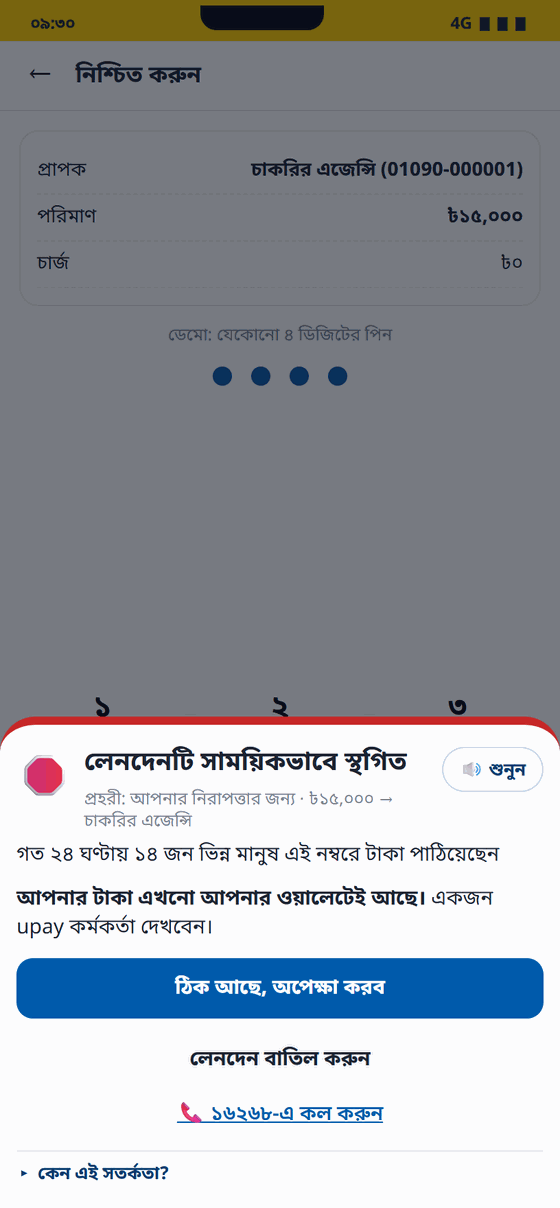
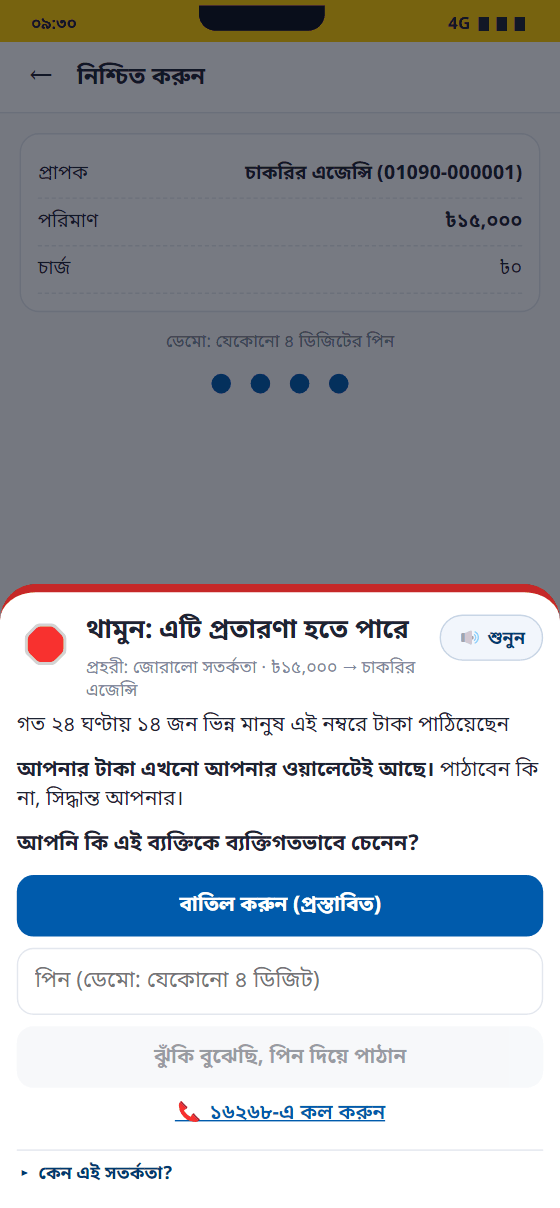
docs: README and screenshots for the warn-only flow and the copilot overview
- The principle is now 'models score, rules warn, the customer decides'; HOLD is described as the strongest
  warning and the analyst actions as follow-up.
- New screenshots: the showcase, the HOLD warning on the phone, and the copilot Overview.

diff --git a/tools/readme_results.py b/tools/readme_results.py
@@ -45,9 +45,10 @@ def main():
           f"- Expected victim money protected: **Tk {i['expected_prevented_tk']:,} of Tk {i['victim_loss_tk']:,} "
           f"({pct(i['expected_prevented_share'])})** under the stated stop-rate assumptions.",
           f"- Honest customers over the 10 test days: {pct(f['customers_nudged_share'])} saw any warning, "
-          f"{pct(f['customers_stepup_share'])} were asked for a PIN step-up, {pct(f['customers_held_share'])} had a "
-          f"transaction held. Legit transactions allowed without friction: {pct(f['legit_txn_share_by_band']['ALLOW'], 2)}.",
-          f"- Analyst load: {f['alerts_per_day']['HOLD']} HOLD cases/day → {f['analyst_hours_manual']} h manual vs "
+          f"{pct(f['customers_stepup_share'])} were asked for a PIN step-up, {pct(f['customers_held_share'])} got the "
+          f"strongest (HOLD) warning. Legit transactions allowed without friction: {pct(f['legit_txn_share_by_band']['ALLOW'], 2)}.",
+          f"- Analyst follow-up (after the customer has decided; no transfer waits for it): {f['alerts_per_day']['HOLD']} "
+          f"HOLD alerts/day → {f['analyst_hours_manual']} h manual vs "
           f"{f['analyst_hours_with_copilot']} h with the copilot over 10 days (assumed minutes per case)."]
     if m.get("ablation"):
         full = m["ablation"][0]["pr_auc"]

diff --git a/README.md b/README.md
@@ -17,7 +17,7 @@
 AI Hackathon 2026 (DIU CPC × upay) · Track 01: Trust & Risk Intelligence, with our Track 06 work merged in<br>
 **Prototype on synthetic data. Not an upay product; the wallet screens are an upay-style mock.**
 
-<img src="docs/images/showcase.png" alt="The Prohori showcase: the upay-style phone pauses a Tk 15,000 transfer and explains why; the analyst copilot shows the same live alert with its risk score, the customer's amount habit and the SHAP evidence" width="100%">
+<img src="docs/images/showcase.png" alt="The Prohori showcase: the upay-style phone shows a strong warning on a Tk 15,000 transfer with Cancel (recommended) and send with PIN; the copilot's Overview shows where the warned money went (stayed in the wallet, sent after the warning, waiting for the customer) and the same live warning in its table" width="100%">
 
 </div>
 
@@ -59,11 +59,12 @@ the three layers of the Track 01 brief:
 
 1. **Guardian on the phone:** checks the number as it is typed, and every Send Money and recharge after the PIN.
 2. **Detection engine:** trained models on a streaming feature store score each transfer live.
-3. **Copilot for upay's analysts:** the evidence, the money network and a case report; a person approves every action.
+3. **Copilot for upay's analysts:** the evidence, the money network and a case report, for follow-up after the
+   warning. No transfer waits for an analyst.
 
 **The purpose.** Protect the customer without getting in their way (98.72% of honest transactions see no friction),
-explain every warning in plain Bangla or English, and keep people in charge. **Models score, rules decide, people
-approve.**
+explain every warning in plain Bangla or English, and leave the decision with the customer: Prohori warns, it never
+holds a transfer. **Models score, rules warn, the customer decides.**
 
 ## Live demo
 
@@ -88,19 +89,21 @@ the number and amount on the phone. The same list is on the phone (Send Money an
 | 1 | Send Tk 800 to Mother (saved contact) | **ALLOW**, sent |
 | 2 | Type `01076254275` (Mother's number with the last two digits swapped) | "Did you mean Mother?" with digits 10 and 11 marked, before the amount |
 | 3 | Send **Tk 15,000** to Mother | **NUDGE**: "25 times what you usually send", his last 30 amounts drawn beside it |
-| 4 | Send Tk 15,000 to `01090000001` ("job deposit") | **HOLD**: 14 different people paid this number in 24 hours |
+| 4 | Send Tk 15,000 to `01090000001` ("job deposit") | **HOLD**, the strongest warning: 14 different people paid this number in 24 hours. Cancel, or send anyway with the PIN: the choice is the customer's |
 | 5 | Recharge your own number **Tk 1,000** | **NUDGE**: 10 times his usual Tk 99 recharge |
 | 6 | Account → customer Salma → "takeover test" scenario | **HOLD**: new phone after a SIM swap |
 | 7 | Send Tk 800 to the swapped number anyway (step 2, then "No, this number is right"), then Report a problem: *"Bhai ajke bhul kore 800 taka onno number e chole gese, number er sesh 4 digit 4275"* | the copilot opens a case: matched transfer, genuine wrong send, hold capped at the wallet's balance |
 
-Every warning also appears in the copilot on the right, with its evidence.
+Every warning also appears on the copilot's **Overview** on the right within a few seconds: the bar at the top shows
+how much of the warned money stayed in the wallet, was sent anyway, or is still waiting for the customer. Click the
+row to open the case with its evidence.
 
 ## Features
 
 <table>
 <tr>
 <td align="center" width="25%"><img src="docs/images/phone-typo.png" width="210" alt="Phone in Bangla: the typed number with the last two digits marked wrong and the number meant, with a Send to Mother button"><br><b>Wrong number</b><br>caught while typing</td>
-<td align="center" width="25%"><img src="docs/images/phone-hold.png" width="210" alt="Phone in Bangla: the Tk 15,000 transfer is paused, with the reasons and a chart of the customer's earlier amounts"><br><b>HOLD</b><br>scam paused before it moves</td>
+<td align="center" width="25%"><img src="docs/images/phone-hold.png" width="210" alt="Phone in Bangla: a strong warning on the Tk 15,000 transfer with the main reason, Cancel (recommended) and send anyway with the PIN"><br><b>HOLD</b><br>strongest warning before it moves</td>
 <td align="center" width="25%"><img src="docs/images/phone-habit.png" width="210" alt="Phone in Bangla: unusual amount for you, Tk 15,000 to Mother against a usual Tk 600"><br><b>Unusual for you</b><br>25× the usual amount</td>
 <td align="center" width="25%"><img src="docs/images/phone-recharge.png" width="210" alt="Phone in Bangla: unusual recharge, Tk 1,000 against a usual Tk 99"><br><b>Recharge</b><br>10× the usual recharge</td>
 </tr>
@@ -109,17 +112,20 @@ Every warning also appears in the copilot on the right, with its evidence.
 | Feature | What the person sees | How the AI is used |
 |---|---|---|
 | **Wrong-number check** | As the number is typed: known contact, new number, no wallet, or "আপনি কি মা-কে পাঠাতে চেয়েছিলেন?" with the wrong digits marked; one tap sends to the number meant | Keypad-aware Damerau–Levenshtein distance to the contacts the customer pays often; which slips are common was **learned with federated learning** on phones |
-| **Scam check before the money moves** | After the PIN, four bands: **ALLOW** goes through, **NUDGE** asks one question, **STEP-UP** asks for the PIN again, **HOLD** pauses it for an analyst ("your money is still in your wallet"). The screen stays short: the title, the main reason and the choice; every other reason sits under **Why this warning?** 🔊 reads it aloud | **LightGBM** + **Isolation Forest** + money-network **graph rules** on 73 streaming features, fused into a 0–100 score; **SHAP** picks the reasons; a plain-code policy picks the band |
+| **Scam check before the money moves** | After the PIN, four bands: **ALLOW** goes through, **NUDGE** asks one question, **STEP-UP** asks for the PIN again, **HOLD** is the strongest warning ("your money is still in your wallet", cancel recommended, the PIN again to send anyway). Prohori never holds a transfer: the customer always decides. The screen stays short: the title, the main reason and the choice; every other reason sits under **Why this warning?** 🔊 reads it aloud | **LightGBM** + **Isolation Forest** + money-network **graph rules** on 73 streaming features, fused into a 0–100 score; **SHAP** picks the reasons; a plain-code policy picks the band |
 | **Amount habit (Send Money and recharge)** | "You usually send about Tk 600 (Tk 232 to 1,590), about 4 a week"; past the customer's own limit Prohori asks once and draws the last 30 amounts beside this one | Each phone keeps its own last 30 amounts; what counts as unusual (16× for Send Money, 9.5× for recharge) was **learned with federated analytics** across 11,285 phones |
 | **Mobile Recharge** | Own number or a contact; a Tk 1,000 recharge or three quick recharges to other people's numbers get one check | The recharge habit plus a rapid-recharge rule (the fraud model is not trained on recharges) |
 | **Report a problem (Banglish)** | Write in Bangla, Banglish or English; the app shows what it understood, matches the transfer and tracks the case (10 working days) | Transparent **rules**, not a language model: amounts, last four digits, day and time words, transfer matching |
-| **Analyst copilot** | Live queue with filters, SHAP evidence, the money network, the amount habit, the customer's own words, a four-part case report, actions that need a name, audit log | Template report built only from the evidence; optional **Claude** rewording (off by default, numbers checked against the evidence) |
+| **Analyst copilot** | An **Overview** dashboard (where the warned money went, what customers decided, warnings by band, the held-out test window), then a live queue with filters, SHAP evidence, the money network, the amount habit, the customer's own words, a four-part case report, follow-up actions that need a name, audit log | Template report built only from the evidence; optional **Claude** rewording (off by default, numbers checked against the evidence) |
 | **Agent Watch** | Rogue cash-out agents, per area, per day | Peer z-scores and a Poisson test for register harvesting (only 9 rogue agents: too few to train on) |
 | **Federated & privacy tab** | The three federated results, with what leaves a phone and what never does | Secure aggregation (masks that cancel in the sum) + differential privacy; a **federated GBDT** across 8 divisions exported as a LightGBM model |
 | **Am I talking to a scammer?** | Paste what a caller said; Prohori names the known tricks | Rule-based cue check; the text is not stored |
 | **Test numbers** | 27 real numbers from the dataset to try, with the expected answer | Each answer recorded by running the same code on a freshly staged demo |
 
 <table>
+<tr>
+<td colspan="2"><img src="docs/images/copilot-overview.png" alt="Copilot Overview dashboard: a bar showing Tk 15,000 stayed in the wallet, Tk 4,500 sent after the warning and Tk 15,000 waiting for the customer; four figures; the latest warnings table; warnings by band; and what 10,000 honest transfers see"><br><b>Copilot overview:</b> where the warned money went, what customers decided, and the held-out test window</td>
+</tr>
 <tr>
 <td width="50%"><img src="docs/images/copilot-evidence.png" alt="Copilot: SHAP bars for the HOLD alert and the money network where 14 payers send to a two-day-old wallet that cashes out at agent A00044"><br><b>Copilot:</b> why it fired, and where the money went</td>
 <td width="50%"><img src="docs/images/copilot-complaint.png" alt="Copilot complaint case: the customer's Banglish words, what the rules read, the matched transfer and the digit comparison"><br><b>Copilot:</b> a Banglish complaint matched to the transfer</td>
@@ -201,8 +207,8 @@ Data: 683,148 transactions, 3,664 fraud (0.54%); validation **14/14 checks pass*
 
 - Victim-side scam transactions (money leaving a victim) flagged STEP_UP or higher: **90.8%** (NUDGE+ 95.4%).
 - Expected victim money protected: **Tk 2,401,775 of Tk 2,526,620 (95.1%)** under the stated stop-rate assumptions.
-- Honest customers over the 10 test days: 7.3% saw any warning, 2.6% were asked for a PIN step-up, 0.9% had a transaction held. Legit transactions allowed without friction: 98.72%.
-- Analyst load: 77.5 HOLD cases/day → 258.3 h manual vs 38.8 h with the copilot over 10 days (assumed minutes per case).
+- Honest customers over the 10 test days: 7.3% saw any warning, 2.6% were asked for a PIN step-up, 0.9% got the strongest (HOLD) warning. Legit transactions allowed without friction: 98.72%.
+- Analyst follow-up (after the customer has decided; no transfer waits for it): 77.5 HOLD alerts/day → 258.3 h manual vs 38.8 h with the copilot over 10 days (assumed minutes per case).
 
 **Ablation:** removing a feature group and retraining costs the most PR-AUC for counterparty (−0.137), behaviour (−0.026), complaints (−0.016) (full model 0.962). Component view: LightGBM only 0.962; LightGBM + IsolationForest 0.962; LightGBM + graph rules 0.962; fused (all three) 0.962.
 
@@ -440,9 +446,9 @@ archive/ferot/              Track 06 prototype (see above)
 
 | Layer | Where | What it does |
 |---|---|---|
-| 1. Pre-Transaction Guardian | `ui/app.html`, upay-style phone | **As the number is typed:** known contact ✓, new number, no wallet, or "Did you mean মা (01076-254257)?" with the wrong digits marked. **After the PIN:** Prohori scores the transfer. **ALLOW** goes through. **NUDGE** asks a question with the evidence and a cancel default (for a likely slip: "Send to মা instead"). **STEP_UP** asks for the PIN again. **HOLD** pauses it for an analyst ("your money is still in your wallet"). 🔊 reads the warning aloud (the browser's own voice, no network). **Amount habit:** the amount screen shows "you usually send about Tk 600 (Tk 232 to 1,590), about 4 a week" and warns as you type when an amount is past the customer's own limit; the warning shows the last 30 amounts as dots with this one in red. **Mobile Recharge** with the same habit check and a rapid-recharge rule. Also: **Report a problem** (Banglish complaints, consent never pre-ticked, case tracker), an "Am I talking to a scammer?" checker, and **test numbers** from the dataset under Send Money and Recharge |
+| 1. Pre-Transaction Guardian | `ui/app.html`, upay-style phone | **As the number is typed:** known contact ✓, new number, no wallet, or "Did you mean মা (01076-254257)?" with the wrong digits marked. **After the PIN:** Prohori scores the transfer. **ALLOW** goes through. **NUDGE** asks a question with the evidence and a cancel default (for a likely slip: "Send to মা instead"). **STEP_UP** asks for the PIN again. **HOLD** is the strongest warning ("your money is still in your wallet"): cancel is recommended, the PIN again sends it anyway; no transfer is held for an analyst. 🔊 reads the warning aloud (the browser's own voice, no network). **Amount habit:** the amount screen shows "you usually send about Tk 600 (Tk 232 to 1,590), about 4 a week" and warns as you type when an amount is past the customer's own limit; the warning shows the last 30 amounts as dots with this one in red. **Mobile Recharge** with the same habit check and a rapid-recharge rule. Also: **Report a problem** (Banglish complaints, consent never pre-ticked, case tracker), an "Am I talking to a scammer?" checker, and **test numbers** from the dataset under Send Money and Recharge |
 | 2. Detection engine | `src/serve/live.py` + the trained bundle | The same streaming feature store, LightGBM, Isolation Forest, graph rules and four-band policy used in evaluation, plus the keypad-slip check with federated costs. Nothing is pre-recorded: every transfer is scored when it is sent |
-| 3. Investigation copilot | `ui/analyst.html` | Live queue (pre-send alerts, complaints and recharges; filters for complaints, wrong numbers, unusual amounts and recharges), SHAP evidence, the money network, the digit diff for wrong numbers, the customer's **amount habit** (usual amount, range, how often, this amount against the learned limit), the customer's own words for complaints, a four-part case report, actions that need an analyst's name. Tabs: Agent Watch, model and fairness, **federated learning and privacy** (slip costs, amount habits, cross-silo model), hash-chained audit log |
+| 3. Investigation copilot | `ui/analyst.html` | **Overview** (opens first): how much of the warned money stayed in the wallet, was sent anyway or is still waiting; warnings by band; the latest warnings; and the held-out test window (scam types caught, warnings per day, what 10,000 honest transfers see). Then the live queue (pre-send alerts, complaints and recharges; filters for complaints, wrong numbers, unusual amounts and recharges), SHAP evidence, the money network, the digit diff for wrong numbers, the customer's **amount habit** (usual amount, range, how often, this amount against the learned limit), the customer's own words for complaints, a four-part case report, actions that need an analyst's name. Tabs: Agent Watch, model and fairness, **federated learning and privacy** (slip costs, amount habits, cross-silo model), hash-chained audit log |
 
 `ui/index.html` shows the phone and the copilot side by side under a one-line header. **Both | Phone only |
 Copilot only** switches the layout on the same page: nothing reloads, so the engine and everything done so far stay
@@ -495,16 +501,18 @@ labelled with the synthetic ground truth so judges can see both kinds.
 <summary><b>Rules that keep people in control</b></summary>
 
 Plain code, `src/serve/live.py` and `copilot.py`:
-- The customer cancels or confirms NUDGE/STEP_UP warnings. A HOLD cannot be pushed through by the customer;
-  only an analyst can release it. A likely keypad slip always gets a one-tap check, even when the model says ALLOW.
+- Prohori only warns. The customer cancels or confirms every warning: one tap for a NUDGE, the PIN again for
+  STEP_UP and HOLD. HOLD is the name of the top score band (80 and above), not a hold: no transfer waits for an
+  analyst. A likely keypad slip always gets a one-tap check, even when the model says ALLOW.
   So does an amount past the customer's own habit (at least 16 times their usual Send Money amount and at least
   Tk 2,000, or a 24-hour total at least 13 times their usual day and at least Tk 5,000; for recharges 9.5 times and
   Tk 200). These rules only ask; they never block. Recharges are not scored by the model (it was not trained on
   them): they get the habit check and the rapid-recharge rule.
-- Recommended actions come from a fixed list (freeze recipient, verify owner, contact senders, review agent,
-  release, watchlist, dismiss, hold disputed amount, ask recipient consent, ask customer details), picked by rules.
-  Every action needs an analyst name; a dismissal needs a reason.
-- An analyst's freeze becomes policy: any later transfer to that wallet is held (`recipient_frozen_by_analyst`).
+- Recommended follow-up actions come from a fixed list (flag recipient, verify owner, contact senders, review agent,
+  watchlist, dismiss, hold disputed amount, ask recipient consent, ask customer details), picked by rules.
+  Every action needs an analyst name; a dismissal needs a reason. None of them stops or releases a transfer.
+- An analyst's flag becomes policy: any later transfer to that wallet gets the strongest warning
+  (`recipient_flagged_by_analyst`), and the customer still decides.
 - A complaint needs explicit consent (never pre-ticked). A hold is never more than the disputed amount or what the
   wallet holds. Nothing promises a refund: upay's terms make the sender responsible for the number entered, and a
   return needs the recipient's consent or a legal process. The customer is told how to escalate to Bangladesh Bank.
